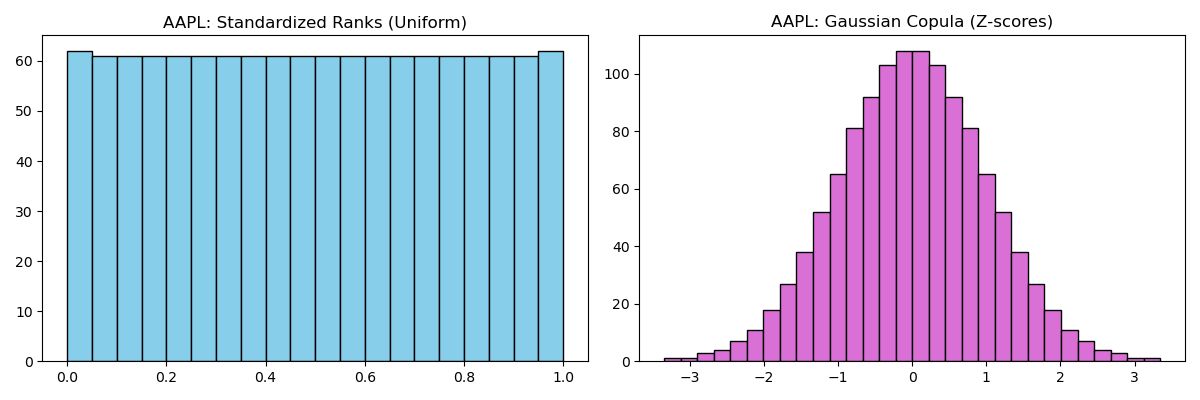
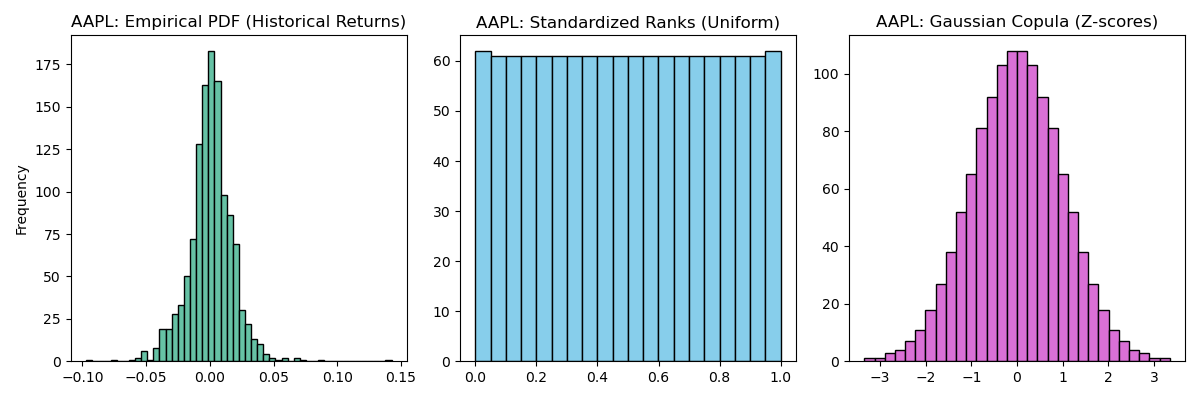
added empirical distribution in demo

diff --git a/docs/partB_applied.md b/docs/partB_applied.md
@@ -53,8 +53,9 @@ Before fitting the nonparanormal graphical model, we first apply the **Gaussian 
 
 To illustrate this transformation, the plots below show (across a single ticker):
 
-1. **Standardized ranks** — approximately $\text{Uniform}(0,1)$  
-2. **Inverse-normal scores** — approximately $\mathcal{N}(0,1)$  
+1. [LEFT] **Empirical returns** — approximately Gaussian but with noticeable deviations (e.g., mild skewness or t-distribution-like heavy tails)
+2. [MIDDLE] **Standardized ranks** — approximately $\text{Uniform}(0,1)$  
+3. [RIGHT] **Inverse-normal scores** — approximately $\mathcal{N}(0,1)$  
 
 ![Copula Transform Demo](media/demo_copula_transform.png)
 

diff --git a/README.md b/README.md
@@ -1,4 +1,4 @@
 [Part A](docs/partA.md)  
-[Part B.1 - theory](docs/partB_gaussian_graphical_model_theory.md)
+[Part B.1 - theory](docs/partB_gaussian_graphical_model_theory.md)  
 [Part B.2 - theory](docs/partB_nonparanormal_graphical_model_theory.md)  
 [Part B - applied](docs/partB_applied.md)  
